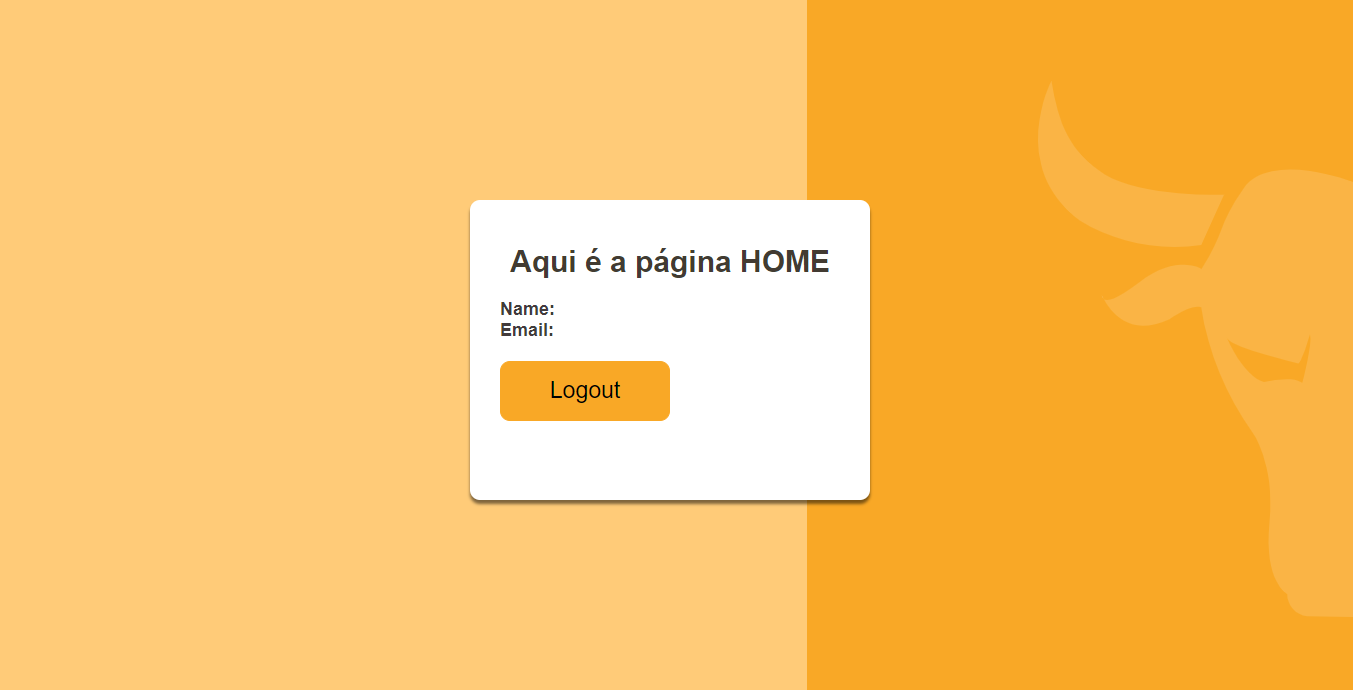
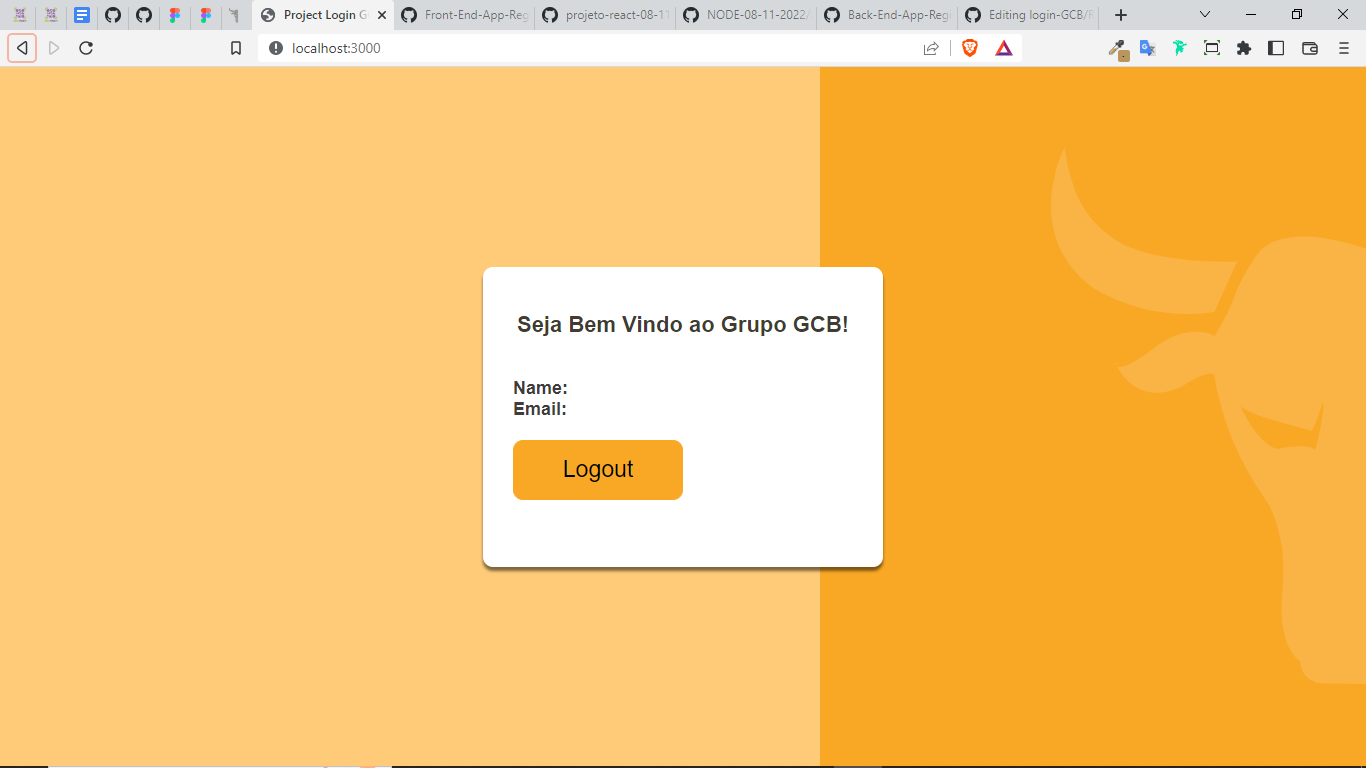
alterações de imagem, estilos e texto

Changed region(s): [[0.0, 0.0, 1.0, 1.0], [0.745, 0.1522, 1.0, 0.6391], [0.0, 0.9739, 0.2483, 1.0]]

diff --git a/login-page-gcb/src/pages/styles.ts b/login-page-gcb/src/pages/styles.ts
@@ -31,13 +31,13 @@ export const ContainerItens = styled.div`
   }
 `
 
-export const H2 = styled.h1`
+export const H1 = styled.h1`
   font-style: normal;
   font-weight: 600;
-  font-size: 30px;
+  font-size: 22px;
   color: rgb(66, 59, 50);
   text-align: center;
-  margin: 20px 0;
+  margin: 20px 0 40px;
 `
 
 export const Button = styled.button`

diff --git a/login-page-gcb/src/pages/index.tsx b/login-page-gcb/src/pages/index.tsx
@@ -22,7 +22,7 @@ export default function Home(props: HomeProps) {
     <>
       <S.Container>
         <S.ContainerItens>
-          <S.H2>Seja Bem Vindo ao Grupo GCB!</S.H2>
+          <S.H1>Seja Bem Vindo ao Grupo GCB!</S.H1>
           <S.P>
             <span>Name: </span>
             {props.name}
